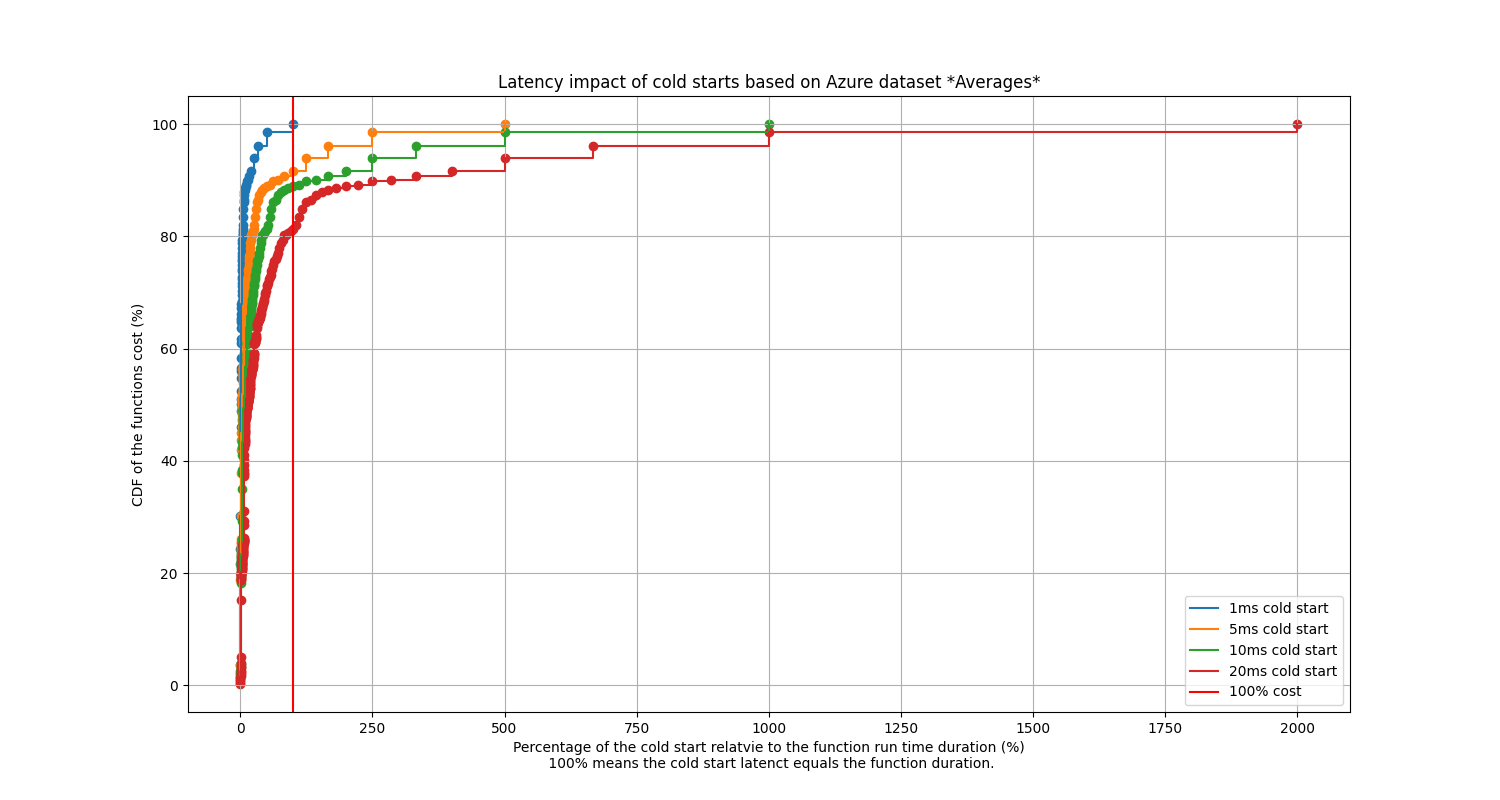
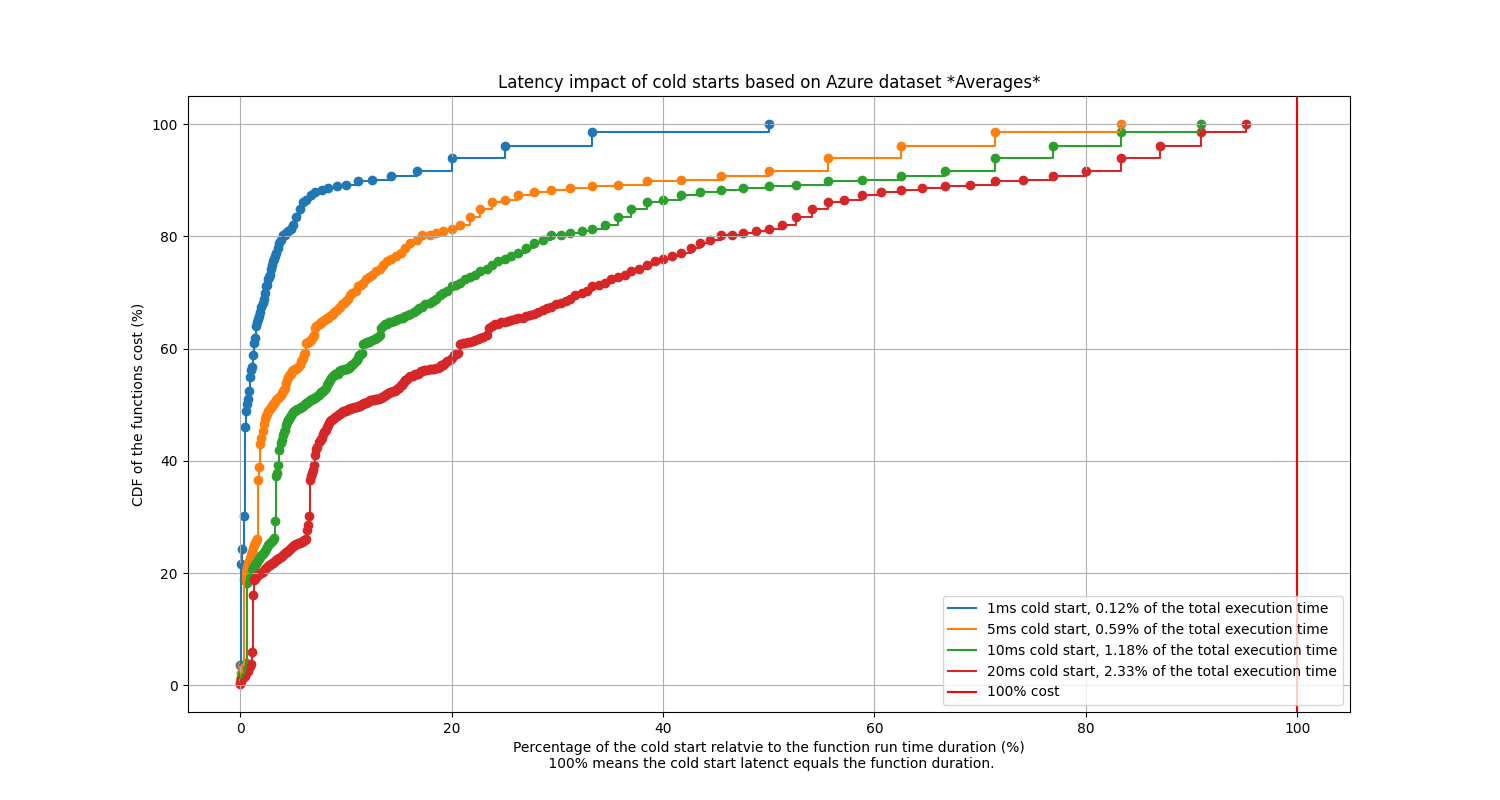
correcting the cost calculation equation

diff --git a/cold-start-simulator/avg_cost_simulator.py b/cold-start-simulator/avg_cost_simulator.py
@@ -18,11 +18,12 @@ files_names = ["function_durations_percentiles.anon.d01.csv",
                "function_durations_percentiles.anon.d12.csv",
                "function_durations_percentiles.anon.d13.csv",
                "function_durations_percentiles.anon.d14.csv"]
-
 def plot_cost(cold_start_duration):
 
     dic_counter = {} # key is the percentage cost of the cold start for the functions, and the value the number of function that suffered this cost
     number_of_ignored_function = 0
+    global_function_e2e = 0 # E2E, end two end execution duration
+
     for file_name in files_names:
 
         with open(files_path + file_name) as f:
@@ -37,29 +38,35 @@ def plot_cost(cold_start_duration):
                     number_of_ignored_function += curr_count
                     continue
 
-                percentage_cost = round((100*cold_start_duration)/curr_avg, plot_precision)
+                percentage_cost = round((100*cold_start_duration)/(curr_avg + cold_start_duration), plot_precision) #I am adding the cold_start_duration so that E2E = cold_start_duration + execution_duration
 
                 if percentage_cost not in dic_counter:
                     dic_counter[percentage_cost] = 0
                     
                 dic_counter[percentage_cost] += curr_count
 
+                global_function_e2e += (curr_avg + cold_start_duration)*curr_count
+
     #plot the CDF
     dic_counter = dict(sorted(dic_counter.items()))
 
     global_function_number = sum(dic_counter.values())
+    global_cold_duration = global_function_number*cold_start_duration
+    percentage_of_cold_time = round((100*global_cold_duration)/global_function_e2e,2)
+
     total_sum = 0
     for k in dic_counter:
         total_sum += dic_counter[k]
         percentual_sum = (100*total_sum)/global_function_number
         dic_counter[k] = percentual_sum
 
-    print(f"{number_of_ignored_function} ignored functions call of a total {number_of_ignored_function + global_function_number} calls, corresponds to { round((number_of_ignored_function*100)/(number_of_ignored_function + global_function_number),3)}%")
+    avg_function_duration = round(global_function_e2e / global_function_number, 2)
+    print(f"{number_of_ignored_function} ignored functions call of a total {number_of_ignored_function + global_function_number} calls, corresponds to { round((number_of_ignored_function*100)/(number_of_ignored_function + global_function_number),3)}%, avg function duration {avg_function_duration} ms")
 
     x = dic_counter.keys()
     y = dic_counter.values()
     plt.scatter(x, y)
-    plt.step(x, y, where='post', label=f"{cold_start_duration}ms cold start") 
+    plt.step(x, y, where='post', label=f"{cold_start_duration}ms cold start, {percentage_of_cold_time}% of the total execution time") 
 
 
 plt.figure(figsize=(15, 8))
